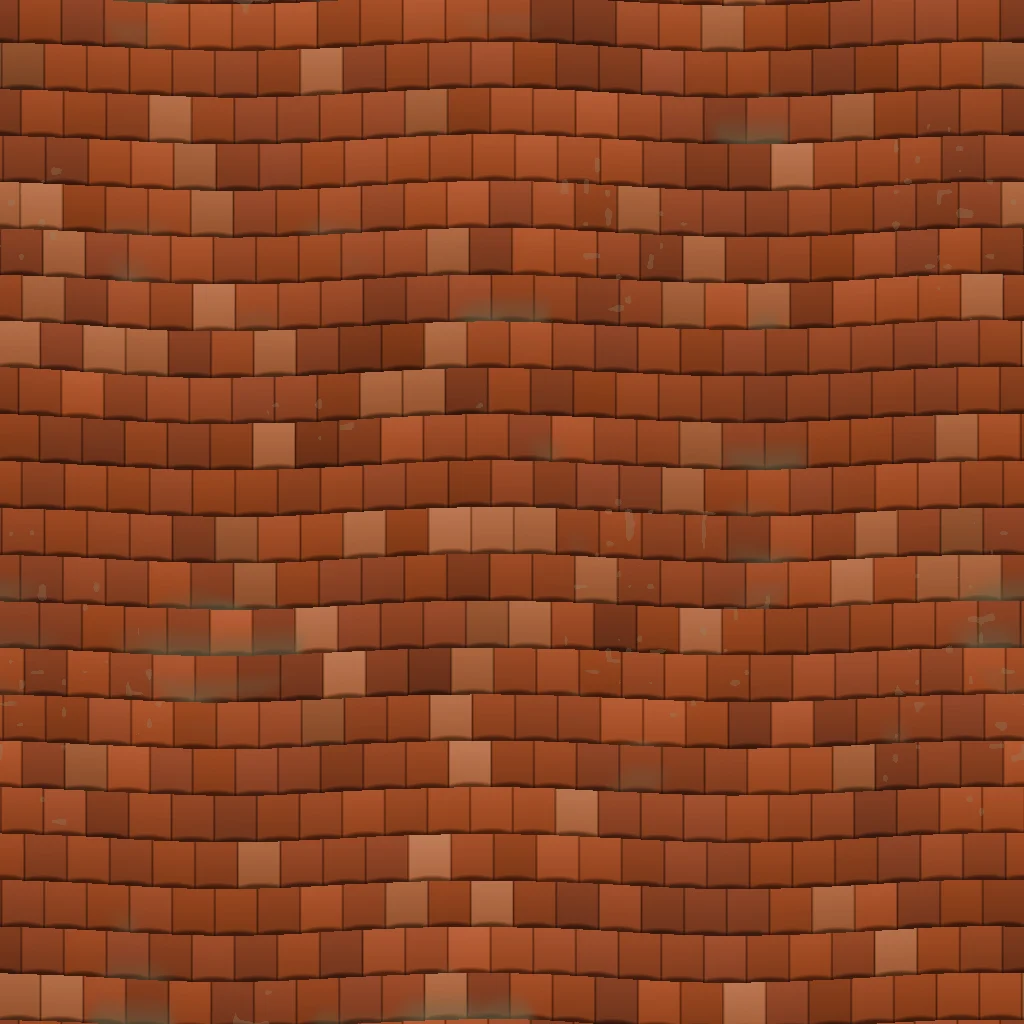
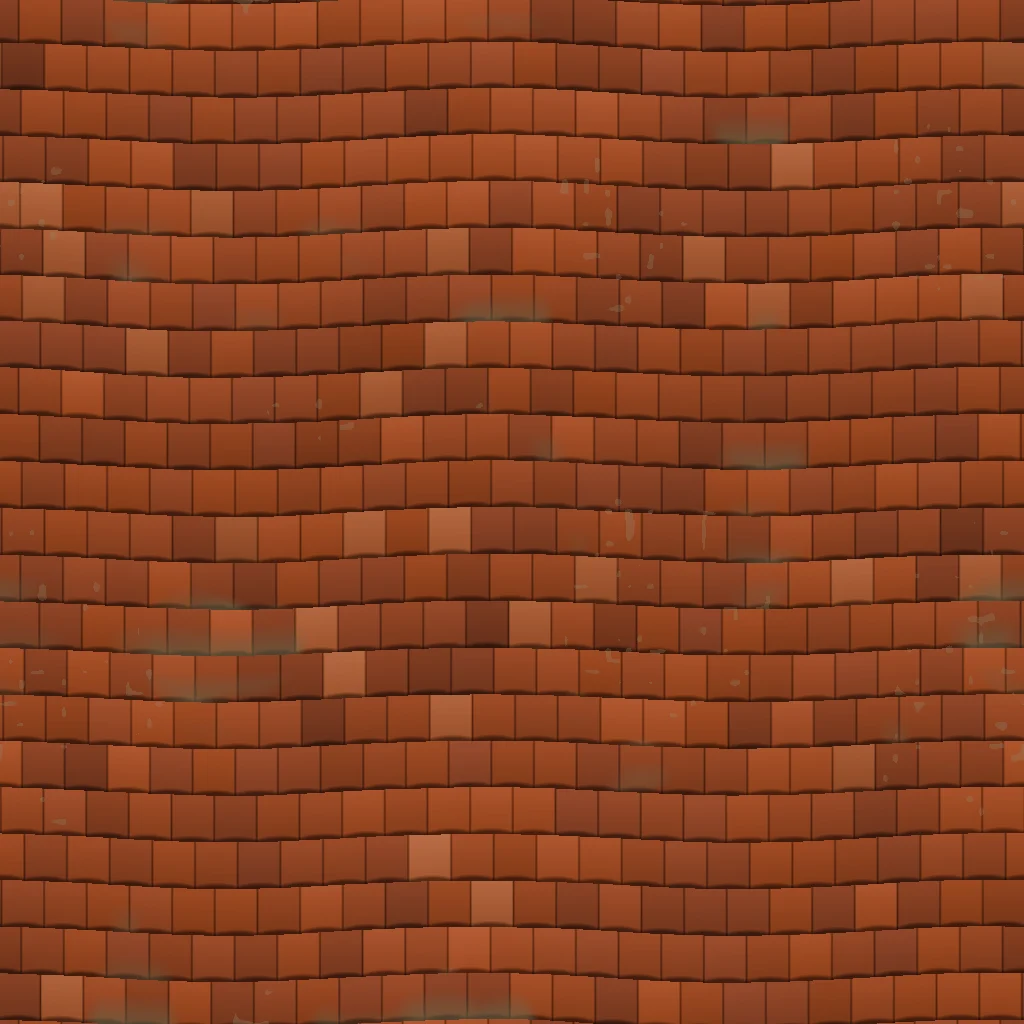
S0004 16: old-town tile roofs: uneven clay tiles along each slope, moss and soot, chimneys, roof windows, gutters

diff --git a/js/roof-props.ts b/js/roof-props.ts
@@ -20,6 +20,32 @@ export function membraneMaterial(kit: Kit): THREE.MeshStandardMaterial | null {
   return new THREE.MeshStandardMaterial({ map: col, normalMap: nrm ?? null, normalScale: new THREE.Vector2(1, 1), roughness: 0.92, color: 0xe4e2dc });
 }
 
+/** Tile-roof material: uneven clay plain tiles (4 m period, the roofs' UV runs along each slope). The house's roof colour (vertex colour) shifts the tiles' hue
+ *  relative to the middle roof red, and a slow world-space noise lays lichen, moss and soot over the roofs, so no two roofs repeat. */
+export function tileMaterial(kit: Kit): THREE.MeshStandardMaterial | null {
+  const col = kit.roof_tiles_col as THREE.Texture | undefined, nrm = kit.roof_tiles_nrm as THREE.Texture | undefined;
+  if (!col) return null;
+  for (const t of [col, nrm]) if (t) { t.wrapS = t.wrapT = THREE.RepeatWrapping; t.anisotropy = 8; t.needsUpdate = true; }
+  if (nrm) nrm.colorSpace = THREE.NoColorSpace;
+  const m = new THREE.MeshStandardMaterial({ map: col, normalMap: nrm ?? null, normalScale: new THREE.Vector2(0.9, 0.9), vertexColors: true, roughness: 0.82 });
+  m.onBeforeCompile = (sh) => {
+    sh.vertexShader = sh.vertexShader.replace('#include <common>', '#include <common>\nvarying vec3 vTileW;')
+      .replace('#include <worldpos_vertex>', '#include <worldpos_vertex>\n vTileW = (modelMatrix * vec4(transformed, 1.0)).xyz;');
+    sh.fragmentShader = sh.fragmentShader.replace('#include <common>', `#include <common>
+varying vec3 vTileW;
+float tileN(vec2 p) { vec2 i = floor(p), f = fract(p); f = f * f * (3.0 - 2.0 * f);
+  float a = fract(sin(dot(i, vec2(127.1, 311.7))) * 43758.5453), b = fract(sin(dot(i + vec2(1.0, 0.0), vec2(127.1, 311.7))) * 43758.5453);
+  float c = fract(sin(dot(i + vec2(0.0, 1.0), vec2(127.1, 311.7))) * 43758.5453), d = fract(sin(dot(i + vec2(1.0, 1.0), vec2(127.1, 311.7))) * 43758.5453);
+  return mix(mix(a, b, f.x), mix(c, d, f.x), f.y); }`)
+      .replace('#include <color_fragment>', `diffuseColor.rgb *= clamp(vColor / vec3(0.392, 0.072, 0.037), vec3(0.3), vec3(2.2));   // roof colour relative to the texture's red (0xa84c36)
+ { float n1 = tileN(vTileW.xz * 0.11) * 0.65 + tileN(vTileW.xz * 0.43) * 0.35, n2 = tileN(vTileW.xz * 0.07 + 17.0);
+   float moss = smoothstep(0.58, 0.8, n1) * 0.45, soot = smoothstep(0.55, 0.85, n2) * 0.25;
+   diffuseColor.rgb = mix(diffuseColor.rgb, vec3(0.16, 0.18, 0.1), moss) * (1.0 - soot); }`);
+  };
+  m.customProgramCacheKey = () => 'roof-tiles-s416';
+  return m;
+}
+
 const near = (p: number[], x: number, z: number): number => pointLine(x, z, [...p, p[0], p[1]]);
 
 function panelProps(r: RoofSite, put: (m: string, i: Inst) => void, low: boolean): void {
@@ -62,6 +88,56 @@ function panelProps(r: RoofSite, put: (m: string, i: Inst) => void, low: boolean
   }
 }
 
+// Height of the roof surface over a point (u along the ridge, v across, in the roof frame) as near-ring.ts builds it: a hip roof's eaves stand 0.5 m out and
+// 0.15 m down, a gable roof's 0.45 m out and 0.15 m down with the ridge raised by the eave overhang; and the pitch of the slope.
+function roofY(r: RoofSite, u: number, v: number): number {
+  const R = r.roof!;
+  if (r.gable) { const ev = R.hv + 0.45, top = R.h + R.rh + 0.2 * R.rh / ev; return top - (top - R.h + 0.15) * Math.abs(v) / ev; }
+  const d = Math.max(Math.abs(v), Math.abs(u) - R.rl); return R.h + R.rh - (R.rh + 0.15) * d / (R.hv + 0.5);
+}
+const roofPitch = (r: RoofSite): number => { const R = r.roof!; return r.gable ? Math.atan2(R.rh + 0.2 * R.rh / (R.hv + 0.45) + 0.15, R.hv + 0.45) : Math.atan2(R.rh + 0.15, R.hv + 0.5); };
+
+function tileProps(r: RoofSite, put: (m: string, i: Inst) => void, low: boolean, detail: boolean): void {
+  const R = r.roof!, hv = r.hv, bx = [-R.ax[1], R.ax[0]], yawA = Math.atan2(R.ax[1], R.ax[0]);
+  const W = (u: number, v: number): [number, number] => [R.cx + R.ax[0] * u + bx[0] * v, R.cz + R.ax[1] * u + bx[1] * v];
+  // chimneys: one or two, on the slopes near the ridge, square to the ridge
+  const nC = R.rl < 3 ? 1 : 1 + (hash(hv, 3) > 0.7 ? 1 : 0);
+  for (let k = 0; k < nC; k++) {
+    const u = (nC === 1 ? hash(hv, 5) - 0.5 : (k ? 0.35 : -0.35) + (hash(hv, k) - 0.5) * 0.2) * Math.max(0.5, R.rl) * 1.2, v = (hash(k, hv * 7) - 0.5) * R.hv * 0.7;
+    const [x, z] = W(u, v), y = roofY(r, u, v);
+    put('chimney', { x, y: y - 0.75, z, yaw: -yawA, shade: 0.88 + 0.16 * hash(x, z) });
+  }
+  if (!detail) return;
+  // roof windows on a slope (not on the near houses with dormers): in the roof plane
+  if (!low && (r.dist >= 48 || r.gable) && hash(hv, 11) > 0.45) {
+    const slope = roofPitch(r), side = hash(hv, 13) > 0.5 ? 1 : -1, nW = 1 + Math.floor(hash(hv, 17) * 2);
+    for (let k = 0; k < nW; k++) {
+      const u = (nW === 1 ? 0 : (k ? 0.5 : -0.5)) * Math.min(R.rl, 3) + (hash(k, hv) - 0.5), v = side * R.hv * 0.5;
+      const [x, z] = W(u, v);
+      put('skylight', { x, y: roofY(r, u, v) + 0.03, z, yaw: -yawA + (side > 0 ? Math.PI : 0), pitch: -slope });
+    }
+  }
+  // gutters under the eaves (along the long sides of a gable roof, all round a hip roof) and two downpipes
+  const p = r.p, sg = r.sign ?? 1; if (!p) return;
+  const n = p.length / 2, eaves: [number, number, number, number][] = [];
+  if (r.gable) {
+    const ev = R.hv + 0.45 + 0.06, eu = R.hu - 0.2;
+    for (const s of [-1, 1]) { const [x0, z0] = W(-eu, s * ev), [x1, z1] = W(eu, s * ev); eaves.push([x0, z0, x1, z1]); }
+  } else for (let i = 0; i < n; i++) {
+    const j = (i + 1) % n, ex = p[2 * j] - p[2 * i], ez = p[2 * j + 1] - p[2 * i + 1], l = Math.hypot(ex, ez); if (l < 1.5) continue;
+    const nx = ez / l * sg * 0.56, nz = -ex / l * sg * 0.56;
+    eaves.push([p[2 * i] + nx - ex / l * 0.4, p[2 * i + 1] + nz - ez / l * 0.4, p[2 * j] + nx + ex / l * 0.4, p[2 * j + 1] + nz + ez / l * 0.4]);
+  }
+  const gy = R.h - 0.25;
+  for (const [x0, z0, x1, z1] of eaves) put('gutter', { x: x0, y: gy, z: z0, yaw: -Math.atan2(z1 - z0, x1 - x0), sx: Math.hypot(x1 - x0, z1 - z0) });
+  if (!low) for (const k of [0, Math.floor(n / 2)]) {
+    const i = k % n, q = (i + n - 1) % n, j = (i + 1) % n;
+    let ox = 0, oz = 0; for (const [a, c] of [[q, i], [i, j]]) { const ex = p[2 * c] - p[2 * a], ez = p[2 * c + 1] - p[2 * a + 1], l = Math.hypot(ex, ez) || 1; ox += ez / l * sg; oz += -ex / l * sg; }
+    const ol = Math.hypot(ox, oz) || 1;
+    put('downpipe', { x: p[2 * i] + ox / ol * 0.16, y: 0, z: p[2 * i + 1] + oz / ol * 0.16, yaw: 0, sy: gy });
+  }
+}
+
 /** Instanced roof props on the near-ring roofs (`near.userData.roofs`); adds the meshes to `group`. Returns the number of props. */
 export function buildRoofProps(group: THREE.Object3D, roofs: RoofSite[], kit: Kit): number {
   const src = kit.roofprops as THREE.Object3D | undefined; if (!src) return 0;
@@ -74,6 +150,7 @@ export function buildRoofProps(group: THREE.Object3D, roofs: RoofSite[], kit: Ki
   for (const r of roofs) {
     if (r.dist > maxD) continue;
     if ((r.kind === 'panel' || (r.kind === 'mid' && r.h > 12)) && r.p) panelProps(r, put, low);
+    if (r.kind === 'tile' && r.roof && r.dist < (low ? 90 : 170)) tileProps(r, put, low, r.dist < (low ? 32 : 60));
   }
   const mat = new THREE.MeshStandardMaterial({ vertexColors: true, roughness: 0.85 });
   const o3 = new THREE.Object3D(), c = new THREE.Color();
@@ -89,5 +166,6 @@ export function buildRoofProps(group: THREE.Object3D, roofs: RoofSite[], kit: Ki
     group.add(im); total += list.length;
   }
   group.userData.roofProps = Object.fromEntries([...lists].map(([k, v]) => [k, v.length]));
+  (globalThis as unknown as { __roofProps: unknown }).__roofProps = { counts: group.userData.roofProps, at: Object.fromEntries([...lists].map(([k, v]) => [k, [...v].sort((a, b) => Math.hypot(a.x, a.z) - Math.hypot(b.x, b.z)).slice(0, 3).map((i) => [i.x, i.y, i.z])])) };       // debug: props per module of the last near ring
   return total;
 }

diff --git a/js/near-ring.ts b/js/near-ring.ts
@@ -16,12 +16,12 @@ import { buildTramLine } from './trams.js';
 import { HouseKit, addHouse, addDormers, PANEL_SCHEMES } from './house-kit.js';
 import type { RoofInfo } from './house-kit.js';
 import { FacadeBuilder } from './baked-facades.js';
-import { buildRoofProps, membraneMaterial } from './roof-props.js';
+import { buildRoofProps, membraneMaterial, tileMaterial } from './roof-props.js';
 import type { LevelAssets, OsmExtract } from './types.js';
 
 export { PLAZA_HALF, PAD_HALF, hash, insideRing, polyArea };
 /** A roof of the near ring: `tile` (pitched, with its ridge) or flat (`panel`, `old`, `mid`, with the footprint and its winding sign). */
-export interface RoofSite { kind: 'tile' | 'panel' | 'old' | 'mid'; h: number; dist: number; hv: number; roof?: RoofInfo; color?: THREE.Color; p?: number[]; sign?: number }
+export interface RoofSite { kind: 'tile' | 'panel' | 'old' | 'mid'; h: number; dist: number; hv: number; roof?: RoofInfo; color?: THREE.Color; p?: number[]; sign?: number; gable?: boolean }
 
 export const OLD_PALETTE = [0xefe2c4, 0xe8c9b4, 0xe9d89a, 0xc9ddc6, 0xc3d2de, 0xe4a99a, 0xf0ebe0];   // pastel plaster of the historic centre
 export const PLAIN_PALETTE = [0xe6e1d6, 0xd6d9d2, 0xdcd3c1];
@@ -216,7 +216,7 @@ export function pitchedRoof(b: Builder, p: number[], h: number, color: THREE.Col
       let nx = uy * vz - uz * vy, ny = uz * vx - ux * vz, nz = ux * vy - uy * vx;
       const l = Math.hypot(nx, ny, nz); if (l < 1e-6) continue;
       if (ny < 0) { nx = -nx; ny = -ny; nz = -nz; }
-      b.tri(A, B, C, [nx / l, ny / l, nz / l], uvf, color);
+      b.tri(A, B, C, [nx / l, ny / l, nz / l], slopeUv(E[i], ex, ez, [nx / l, ny / l, nz / l]) ?? uvf, color);
     }
     if (eave) {                                   // fascia board under the eave edge, a shade darker
       const d = color.clone().multiplyScalar(0.72), ex = E[j][0] - E[i][0], ez = E[j][2] - E[i][2], l = Math.hypot(ex, ez) || 1, nn = [ez / l * sg, 0, -ex / l * sg];
@@ -227,6 +227,15 @@ export function pitchedRoof(b: Builder, p: number[], h: number, color: THREE.Col
   return { cx, cz, ax, hu, hv, rh, rl, h };
 }
 
+
+// Tile UVs of a roof face (S0004 16): u along the eave (horizontal, direction ex, ez), v up the slope, 4 m per repeat; so the tile courses run level on every face.
+function slopeUv(o: Vec, ex: number, ez: number, n: Vec): UvFn | null {
+  const el = Math.hypot(ex, ez); if (el < 1e-4) return null;
+  const e = [ex / el, 0, ez / el];
+  let w = [n[1] * e[2] - n[2] * e[1], n[2] * e[0] - n[0] * e[2], n[0] * e[1] - n[1] * e[0]];      // n x e lies in the face, across the eave
+  if (w[1] < 0) w = [-w[0], -w[1], -w[2]];
+  return (q) => { const dx = q[0] - o[0], dy = q[1] - o[1], dz = q[2] - o[2]; return [(dx * e[0] + dz * e[2]) / 4, (dx * w[0] + dy * w[1] + dz * w[2]) / 4]; };
+}
 
 // Gable roof over a four-cornered footprint (S0004 02): the ridge runs along the long side, eaves 0.45 m, barge 0.2 m, the gable ends are plain plaster (`fill`).
 // Returns the roof for dormers, or null when the footprint is not a rectangle.
@@ -243,7 +252,8 @@ function gableRoof(tiles: Builder, fill: Builder, p: number[], h: number, color:
   for (const s of [-1, 1]) {
     const nrm = [bx[0] * s * rh, ev, bx[1] * s * rh], nl = Math.hypot(nrm[0], nrm[1], nrm[2]), n: Vec = [nrm[0] / nl, nrm[1] / nl, nrm[2] / nl];
     const e0 = P(-eu, s * ev, h - 0.15), e1 = P(eu, s * ev, h - 0.15), r0 = P(-eu, 0, h + rh + 0.2 * rh / ev), r1 = P(eu, 0, h + rh + 0.2 * rh / ev);
-    tiles.tri(e0, e1, r1, n, uvf, color); tiles.tri(e0, r1, r0, n, uvf, color);
+    const su = slopeUv(e0, e1[0] - e0[0], e1[2] - e0[2], n) ?? uvf;
+    tiles.tri(e0, e1, r1, n, su, color); tiles.tri(e0, r1, r0, n, su, color);
   }
   for (const s of [-1, 1]) {                                  // gable triangles in the wall plane
     const A = P(s * hu, -hv, h), B = P(s * hu, hv, h), C = P(s * hu, 0, h + rh);
@@ -427,9 +437,9 @@ export function buildNearRing(osm0: OsmExtract, kit: LevelAssets = {}, hide: Set
     }
     if (pitched) {
       const rc = modern ? new THREE.Color(BK_ROOF[Math.floor(hv * 7919) % BK_ROOF.length]) : ROOF_COLORS[Math.floor(hv * 7919) % ROOF_COLORS.length], plasterC = new THREE.Color(OLD_PALETTE[v]).multiply(tint);
-      const roof = (hk && hash(cx * 1.9, cz * 0.7) < 0.4 ? gableRoof(tiles, fill, p, h, rc, plasterC) : null) ?? pitchedRoof(tiles, p, h, rc, 0, 0.5);
+      const gable = hk && hash(cx * 1.9, cz * 0.7) < 0.4 ? gableRoof(tiles, fill, p, h, rc, plasterC) : null, roof = gable ?? pitchedRoof(tiles, p, h, rc, 0, 0.5);
       if (hk && dist < kitR && !modern) addDormers(hk, roof, rc, plasterC, hv);       // the barracks have plain metal roofs
-      roofs.push({ kind: 'tile', h, roof, dist, hv, color: rc });
+      roofs.push({ kind: 'tile', h, roof, dist, hv, color: rc, p, sign, gable: !!gable });
     } else {
       fillPoly(flats, p, h, 8);
       roofs.push({ kind: panel ? 'panel' : old ? 'old' : 'mid', h, p, sign, dist, hv });
@@ -448,7 +458,7 @@ export function buildNearRing(osm0: OsmExtract, kit: LevelAssets = {}, hide: Set
     if (b.empty) continue;
     mesh(b, calmMat(v === 99 ? 0xdad3c3 : kind === 'old' ? OLD_PALETTE[v] : PLAIN_PALETTE[v], kind, v, true), group, true);
   }
-  mesh(tiles, material(tile(tileRoofTex), { vertexColors: true, ...surface('roof', 3, 1.1) }), group, true);
+  mesh(tiles, tileMaterial(kit) ?? material(tile(tileRoofTex), { vertexColors: true, ...surface('roof', 3, 1.1) }), group, true);
   mesh(relief, material(null, { vertexColors: true, roughness: 0.9 }), group, false);   // no shadow casting: the details are too small to show in the shadow map
   mesh(flats, membraneMaterial(kit) ?? material(tile(roofTex), { color: 0xb8b8b8 }), group);
   buildRoofProps(group, roofs, kit);                         // S0004 16: machine rooms, vents, masts, dishes, chimneys, roof windows, gutters (js/roof-props.ts)

diff --git a/js/birds.ts b/js/birds.ts
@@ -98,7 +98,7 @@ function makeFlocks(): void {
 }
 
 // ── perches ──
-interface RoofLike { kind: string; h: number; p?: number[]; sign?: number; roof?: { cx: number; cz: number; ax: [number, number]; rl: number; rh: number; h: number } }
+interface RoofLike { kind: string; h: number; p?: number[]; sign?: number; gable?: boolean; roof?: { cx: number; cz: number; ax: [number, number]; rl: number; rh: number; h: number; hv: number } }
 function findPerches(): Perch[] {
   const out: Perch[] = [];
   const roofs = (perchSrc?.roofs || []) as RoofLike[];
@@ -109,7 +109,7 @@ function findPerches(): Perch[] {
       const R = r.roof, d = Math.hypot(R.cx, R.cz); if (R.rl < 1.2) continue;
       cand.push({ d, f: () => {
         const n = 1 + Math.floor(rnd() * 3), u0 = (rnd() - 0.5) * R.rl * 1.4, yaw = Math.atan2(R.ax[0], R.ax[1]) + Math.PI / 2 + (rnd() < 0.5 ? Math.PI : 0);
-        for (let k = 0; k < n; k++) { const u = u0 + k * 0.45; out.push({ x: R.cx + R.ax[0] * u, y: R.h + R.rh + 0.02, z: R.cz + R.ax[1] * u, yaw: yaw + (rnd() - 0.5) * 0.6 }); }
+        for (let k = 0; k < n; k++) { const u = u0 + k * 0.45; out.push({ x: R.cx + R.ax[0] * u, y: R.h + R.rh + (r.gable ? 0.2 * R.rh / (R.hv + 0.45) : 0) + 0.02, z: R.cz + R.ax[1] * u, yaw: yaw + (rnd() - 0.5) * 0.6 }); }
       } });
     } else if (r.p && r.p.length >= 6) {
       const p = r.p, n = p.length / 2, top = r.kind === 'panel' ? 0.82 : 0.5, out0 = r.kind === 'panel' ? 0.06 : 0.07;

diff --git a/scripts/blender/roofprops.py b/scripts/blender/roofprops.py
@@ -180,10 +180,8 @@ def chimney():
     m = M('chimney', 0.0)
     m.cbox(0, 0, 0.62, 0.48, -1.2, 1.55, PLASTER)
     m.cbox(0, 0, 0.72, 0.58, 1.55, 1.65, PLASTER, skip='')                               # plaster band
-    for k in range(4):                                                                  # brick head: courses offset a little
-        y = 1.65 + k * 0.1; o = 0.012 if k % 2 else 0.0
-        m.cbox(o, 0, 0.64, 0.5, y, y + 0.09, BRICK, skip='')
-        m.cbox(o, 0, 0.6, 0.46, y + 0.09, y + 0.1, MORTAR, skip='ut')
+    m.cbox(0, 0, 0.64, 0.5, 1.65, 1.84, BRICK, skip='')                                    # brick head in two courses, the upper one stepped out
+    m.cbox(0, 0, 0.7, 0.56, 1.84, 2.05, BRICK, skip='')
     m.cbox(0, 0, 0.36, 0.24, 2.05, 2.06, DARK, skip='u')                                 # flue
     for px in (-0.26, 0.26):
         for pz in (-0.19, 0.19): m.cbox(px, pz, 0.07, 0.07, 2.05, 2.28, BRICK)
@@ -214,7 +212,7 @@ def downpipe():
     return m
 
 MODS = {'lift': (lift, 0.03), 'stair': (stair, 0.03), 'vents': (vents, 0.015), 'pipe': (pipe, 0), 'antenna': (antenna, 0), 'dish': (dish, 0), 'drain': (drain, 0),
-        'hatch': (hatch, 0.02), 'chimney': (chimney, 0.012), 'skylight': (skylight, 0), 'gutter': (gutter, 0), 'downpipe': (downpipe, 0)}
+        'hatch': (hatch, 0.02), 'chimney': (chimney, 0), 'skylight': (skylight, 0), 'gutter': (gutter, 0), 'downpipe': (downpipe, 0)}
 
 # ------------------------------------------------------------------ textures
 def _noise(px, cells, seed, octaves=3):
@@ -285,11 +283,11 @@ def tiles(folder, px=1024, period=4.0, seed=5):
     r = np.floor(Vw / rh).astype(int); fy = Vw / rh - r; rr = r % rows
     off = (rr % 2) * 0.5 + (rng.random(rows) * 0.16 - 0.08)[rr]                           # half-bond plus a little random shift per course
     c = np.floor(U / tw + off).astype(int); fx = U / tw + off - c; cc = c % cols
-    tint = rng.normal(1.0, 0.07, (rows, cols)); hue = rng.random((rows, cols)); tilt = rng.normal(0, 0.25, (rows, cols))
+    tint = rng.normal(1.0, 0.045, (rows, cols)); hue = rng.random((rows, cols)); tilt = rng.normal(0, 0.25, (rows, cols))
     red, brown, pale = _rgb(0xa9502f), _rgb(0x8a4630), _rgb(0xb86a44)
     hh = hue[rr, cc][..., None]
     img = (red * (1 - hh) + brown * hh) * tint[rr, cc][..., None]
-    img = np.where((hue[rr, cc] > 0.88)[..., None], pale * tint[rr, cc][..., None], img)
+    img = np.where((hue[rr, cc] > 0.95)[..., None], (pale * 0.6 + red * 0.4) * tint[rr, cc][..., None], img)
     # tail: the lower edge of a tile is a flat segment; the tile above covers the top 60 %, so the visible part is fy 0..0.45 of each course
     tail = 0.06 * (1 - (2 * fx - 1) ** 2)
     vis = fy                                                                              # 0 at the lower edge

diff --git a/work/tasks/S0004-kosice-polish/16-birds-and-roofs.md b/work/tasks/S0004-kosice-polish/16-birds-and-roofs.md
@@ -14,7 +14,7 @@ tile roofs need unevenness; pigeons sitting would be nice".
       through it; pigeons sit on roof ridges, cornices, the cathedral and the square, and take off when the crane passes.
 - [x] Panel-block roofs: parapet, lift machine rooms, stair exits, vent stacks, antennas, satellite dishes, roof
       membrane texture with patches and drains; varied per block.
-- [ ] Tile roofs (old town): uneven tiles (slight sag and row offsets in the normal map or geometry), chimneys with
+- [x] Tile roofs (old town): uneven tiles (slight sag and row offsets in the normal map or geometry), chimneys with
       caps, roof windows, gutters; moss/weathering variation.
 - [ ] Draw calls within budget (instancing), audit and flicker pass; screenshots from the game camera.
 
@@ -40,3 +40,13 @@ tile roofs need unevenness; pigeons sitting would be nice".
   kept 0.45 m off the parapet and apart; one InstancedMesh per module (High within 330 m, Low 170 m and fewer kinds). near-ring.ts: two lines (membrane material, `buildRoofProps`).
 - Checks after the roofs: flicker --plot all --quality all PASS; audit --plot all 0 findings; perf 2560x1440 DPR 2 High 567 calls / 1.53 M tris p90 16.7 ms, Low 139 / 0.48 M p90 16.7 ms.
   Shots: tests/browser/out-s4-16/p0-high-roof-panel-{top,far}.png.
+- Tile roofs: `roof_tiles_{col,nrm}.webp` (4 m period, 59 + 63 KB): clay plain tiles in 18 cm courses, half bond with a random shift per course, courses that sag and wander
+  (2-3 cm), every tile its own tint and tilt (normal map), gaps, shadow under each course, lichen and moss near the laps. near-ring.ts: the tile UVs now follow each slope (`slopeUv`: u along the
+  eave, v up the slope; before they were world x/z, so the courses ran skew on half the faces). `tileMaterial` (roof-props.ts) keeps each house's roof colour as a hue shift of the tiles and
+  lays world-space moss and soot patches over the roofs, so no two roofs repeat. Props on the tile roofs (High within 170 m, Low 90 m): 1-2 chimneys per roof (plastered shaft, brick head,
+  concrete cap on posts, 108 tris), and within 60 m (Low 32 m) roof windows in the roof plane (not on the near houses with dormers), half-round gutters along the eaves (long sides of gable
+  roofs, all round hip roofs) and two downpipes. Pigeon perches on gable ridges sit at the raised ridge now.
+- Checks after the tile roofs: audit --plot all 0 findings; perf 2560x1440 DPR 2 High 588 calls / 1.57 M tris p90 16.7 ms, Low 142 / 0.49 M p90 16.7 ms; flicker: the `game` and `low` depth
+  poses now measure 0.75-0.8 % mean, 1.0-1.2 % max (FAIL at 1.0 %) on every plot, but the same with the tile material and the tile props switched off (plot 1: 0.98 / 1.27 % max), while
+  after the panel-roof commit they measured 0.26 % mean: the rise comes from other WIP in this worktree (tickets 13 / 17-19), to be looked at by the main session.
+  Shots: tests/browser/out-s4-16/p0-high-prop-{chimney,skylight,lift}.png, p4-high-roof-old-{top,far}.png.
